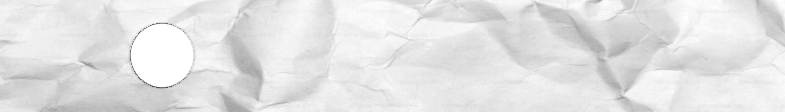
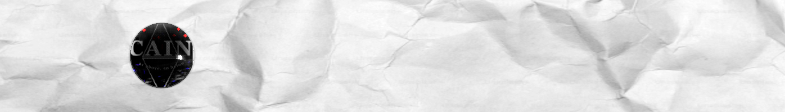
add talisman slashes

Changed region(s): [[0.1529, 0.1875, 0.2446, 0.7768]]

diff --git a/src/talisman.py b/src/talisman.py
@@ -1,12 +1,14 @@
 from dataclasses import dataclass, field
 from glob import glob
-from random import choice as rand_choice
+import random
 from typing import Dict, List, Self
 import csv
 
 from PIL import Image as image, ImageDraw, ImageFont
-from PIL.Image import Image
-from discord import Message, ui
+from PIL import ImageFilter
+from PIL.Image import Image, Resampling
+from PIL.ImageFilter import BoxBlur, GaussianBlur
+from discord import File, Message, ui
 from discord.ui.view import View
 
 """
@@ -22,6 +24,16 @@ max rot of 15deg
 
 
 also render the slash capacity
+
+
+
+
+circle
+- left_x = 130 
+- left_right = 23 -> 83
+- d = 68
+
+
 """
 
 TALISMAN_DIMENSIONS = (785, 112)
@@ -33,7 +45,23 @@ DECAL_CHOICES = tuple(
 TALISMAN_TEMPLATE_PATH = "./assets/talisman.png"
 TALISMAN_FONT_PATH = "./assets/Apex-Black.ttf"
 TALISMAN_DIR = "./tmp/"
+SLASH_CHOICES = glob("./assets/slashes/*.png")
 FONT = ImageFont.truetype(TALISMAN_FONT_PATH, size=50)
+SLASH_TEXT_CENTER = (161, 54)
+SLASH_TEXT_ARGS = {
+    "xy": SLASH_TEXT_CENTER,
+    "fill": (255, 255, 255, 255),
+    "font": FONT,
+    "anchor": "mm",
+    "stroke_fill": (12, 6, 24, 255),
+    "stroke_width": 4,
+}
+NAME_TEXT_ARGS = {
+    "xy": (TALISMAN_DIMENSIONS[0] - FONT.size / 4, TALISMAN_DIMENSIONS[1] - FONT.size),
+    "fill": (0, 0, 0, 204),
+    "font": FONT,
+    "anchor": "rm",
+}
 
 decal_pool = set(DECAL_CHOICES) - {"execution", "pressure", "wormy"}
 
@@ -50,26 +78,75 @@ class Talisman:
     @staticmethod
     def get_random_decal() -> str:
         global decal_pool
-        choice = rand_choice(list(decal_pool))
+        choice = random.choice(list(decal_pool))
         decal_pool -= {choice}
         return choice
 
     def slash(self, count: int = 1) -> bool:
         """If true, resolve"""
-        self.count += count
+        self.current += count
+        self.sync_image()
         return self.current >= self.max
 
     def unslash(self, count: int = 1):
-        self.count -= count
+        self.current = max(0, self.current - count)
+        self.sync_image()
 
     def set(self, value: int):
-        self.count = value
+        self.current = max(0, value)
+        self.sync_image()
 
     def get_decal_fp(self) -> str:
         return f"{DECAL_DIR}{self.decal_path}.png"
 
-    def get_image_fp(self) -> str:
-        return f"{TALISMAN_DIR}{self.name}.png"
+    def get_image(self) -> File:
+        fp = f"./tmp/{self.name}.png"
+        self.sync_image()
+        self._image.save(fp, format="PNG")
+        return File(fp, "talisman.png")
+
+    def sync_image(self):
+        img = image.open(TALISMAN_TEMPLATE_PATH).convert("RGBA")
+
+        txt = image.new("RGBA", img.size, (255, 255, 255, 0))
+        txt_draw = ImageDraw.Draw(txt)
+
+        decal = image.open(f"{DECAL_DIR}{self.decal_path}.png")
+
+        decal.thumbnail(DECAL_DIMENSIONS, Resampling.LANCZOS)
+        mask = decal.copy()
+        decal.putalpha(50)
+        img.paste(decal, mask)
+
+        for n in range(self.current):
+            slash = image.open(random.choice(SLASH_CHOICES))
+
+            # s = self.max
+            # d = (img.width - 20) // s * 2  # n-based padding
+            # l = 190 + d  # left bound
+            # r = img.width - 20 - d  # right bound
+
+            new_offset = random.randrange(-5, 5)
+
+            size = (slash.width + (new_offset * slash.width < 20), slash.height)
+            slash = (
+                slash.rotate(random.randrange(-2, 10), expand=True)
+                .resize(size)
+                .filter(GaussianBlur((0.2, 1.5)))
+            )
+
+            # x = l + n * (r - l) // (s - 1)
+            x = 24 * n + 190
+            y = (img.height - slash.height) // 2
+            slash_pos = (x, y)
+            img.paste(slash, slash_pos, slash)
+
+        txt_draw.text(text=str(self.name), **NAME_TEXT_ARGS)
+        txt_draw.text(text=str(self.max), **SLASH_TEXT_ARGS)
+        img.paste(txt, txt)
+
+        img.save(f"./tmp/{self.name}.png", format="PNG")
+        self._image = img
 
     def to_dict(self) -> dict[str, str | int]:
         return {
@@ -97,22 +174,7 @@ class Talisman:
         if self.decal_path == "USERANDOM":
             self.decal_path = Talisman.get_random_decal()
 
-        img = image.open(TALISMAN_TEMPLATE_PATH)
-        draw = ImageDraw.Draw(img, mode="RGBA")
-        decal = image.open(f"{DECAL_DIR}{self.decal_path}.png")
-        text_size = (
-            TALISMAN_DIMENSIONS[0] - FONT.size / 4,
-            TALISMAN_DIMENSIONS[1] - FONT.size,
-        )
-
-        decal.thumbnail(DECAL_DIMENSIONS, image.Resampling.LANCZOS)
-        mask = decal.copy()
-        decal.putalpha(50)
-        img.paste(decal, mask)
-        draw.text(text_size, self.name.upper(), (0, 0, 0, 56), FONT, "rm")
-        img.save(f"./tmp/{self.name}.png", format="PNG")
-
-        self._image = img
+        self.sync_image()
 
 
 class TalismansManager(Dict[int, Talisman]):

diff --git a/src/cogs/talisman.py b/src/cogs/talisman.py
@@ -38,8 +38,7 @@ class TalismanCog(GroupCog, name="talisman"):
         talisman = Talisman(name, 0, slashes, msg.id, decal)
         self.manager.add(talisman)
 
-        with open(talisman.get_image_fp(), "rb") as f:
-            await msg.edit(content="_ _", attachments=[File(f, "talisman.png")])
+        await msg.edit(content="_ _", attachments=[talisman.get_image()])
 
         await ctx.response.send_message(content="Talisman created", ephemeral=True)
 

diff --git a/test.py b/test.py
@@ -2,6 +2,4 @@ from pprint import pprint
 
 from src.cogs.wiki import agenda_choices
 import yaml
-
-
-print(agenda_choices)
+from src.talisman import SLASH_CHOICES, Talisman
